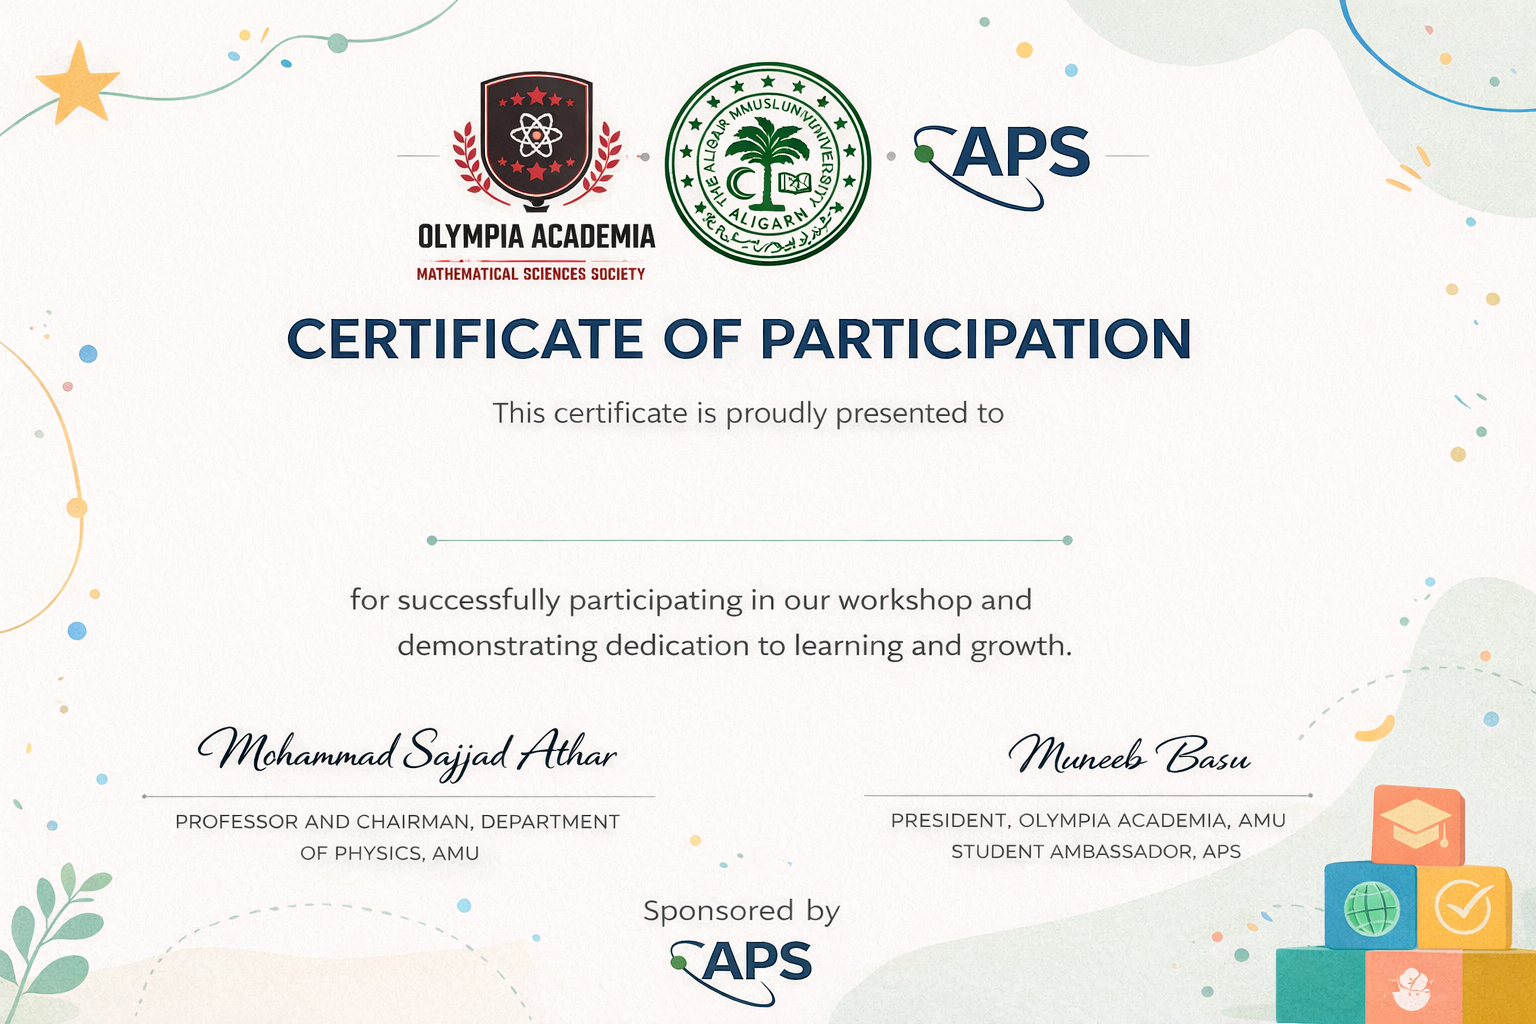
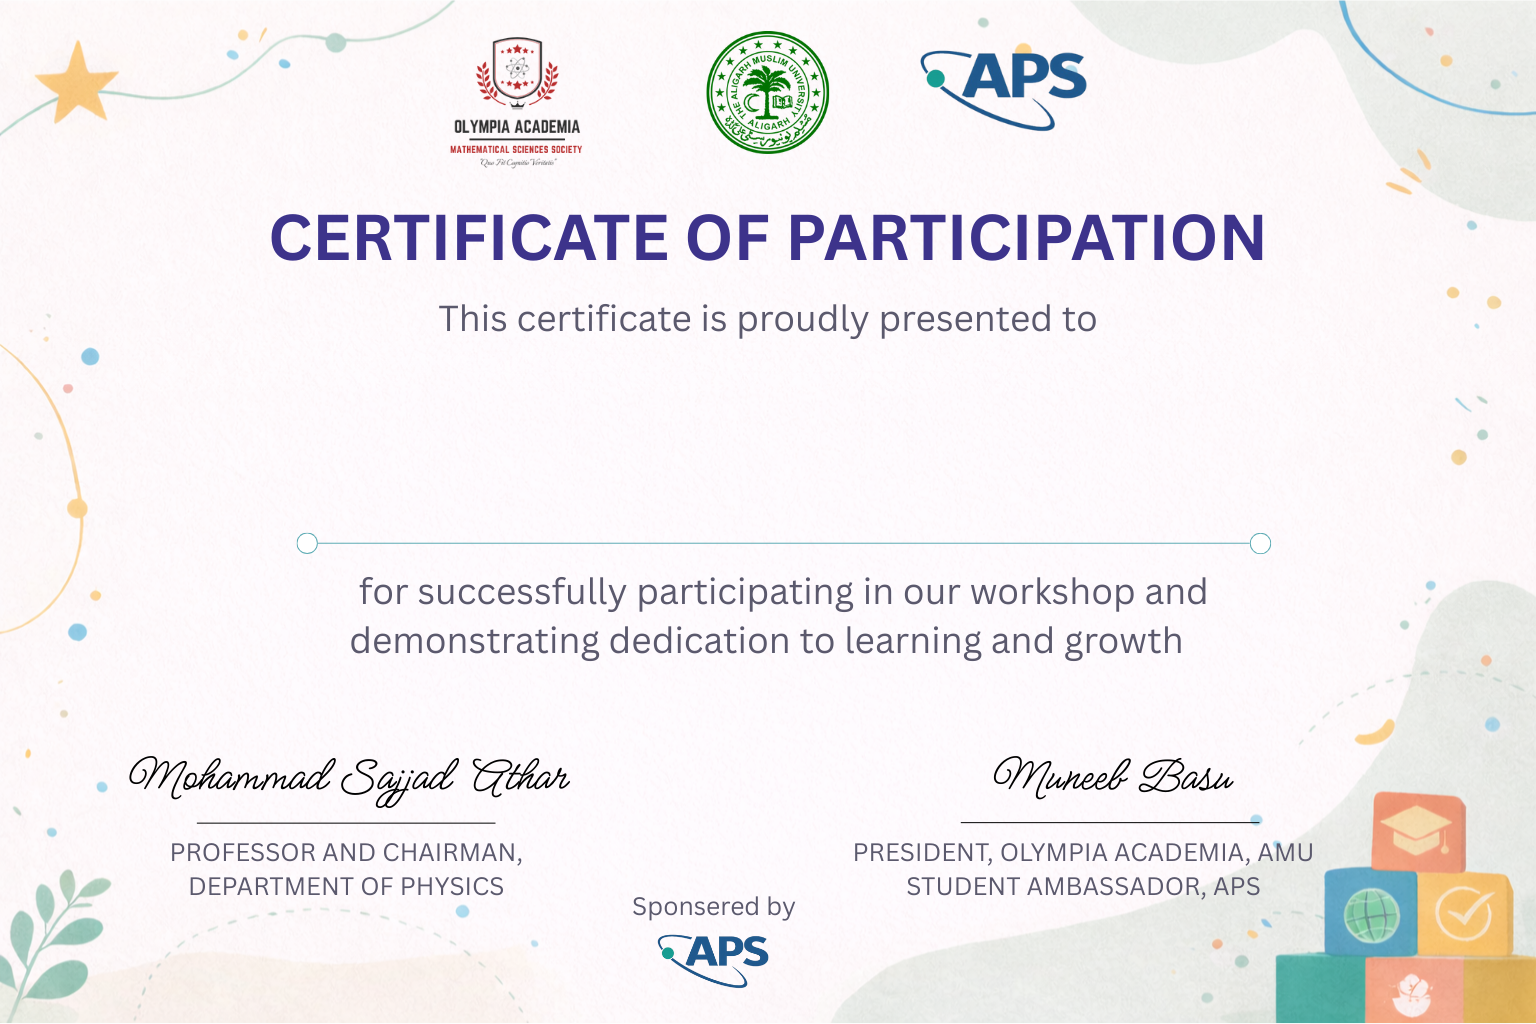
Improved cert using canva

diff --git a/backend/services/certificateService.js b/backend/services/certificateService.js
@@ -34,7 +34,7 @@ const getFontFamily = (fontValue) => {
 // Certificate generation with fixed template and fonts
 export async function generateCertificate({ name }) {
   // Fixed configuration - no longer customizable
-  const nameFont = 'cursive';
+  const nameFont = 'sans';
   const certBody = 'for successfully participating in our workshop and demonstrating dedication to learning and growth.';
   const certTitleFont = 'elegant-serif';
   const sigFont = 'handwriting';
@@ -62,9 +62,9 @@ export async function generateCertificate({ name }) {
     const ctx = canvas.getContext('2d');
     
     // Configure text rendering (scale font size)
-    const fontSize = 114 * scale;  // 72px base * 2 for display * scale
+    const fontSize = 50 * scale;  // 72px base * 2 for display * scale
     const fontFamily = getFontFamily(nameFont);
-    ctx.font = `bold ${fontSize}px "${fontFamily}"`;
+    ctx.font = `normal ${fontSize}px "${fontFamily}"`;
     ctx.fillStyle = '#111827';
     ctx.textAlign = 'center';
     ctx.textBaseline = 'middle';
@@ -74,7 +74,7 @@ export async function generateCertificate({ name }) {
     // Double for 2x: 280 * 2 = 560
     // Add half of name space (112px / 2 * 2 = 112): 560 + 112 = 672
     const textX = width / 2;
-    const textY = 430 * scale;  // Position accounting for scale
+    const textY = 405 * scale;  // Position accounting for scale
     
     console.log(`   → Drawing text at position (${textX}, ${textY}) with font size ${fontSize}px`);
     ctx.fillText(name, textX, textY);

diff --git a/frontend/src/components/DashboardComponents.jsx b/frontend/src/components/DashboardComponents.jsx
@@ -766,11 +766,14 @@ export const Dashboard = ({
       <div 
         className="h-[44.5px] sticky top-0 z-30 flex items-center justify-between px-6"
         style={{
-          backgroundColor: 'transparent',
+          backgroundColor: 'rgba(7, 7, 9, 0.85)',
+          backdropFilter: 'blur(12px)',
+          WebkitBackdropFilter: 'blur(12px)',
           borderBottom: `1px solid ${colors.border.default}`,
           marginLeft: '-24px',
           marginRight: '-24px',
           marginTop: '-24px',
+          transition: 'backdrop-filter 0.2s',
         }}
       >
         {/* Left: Workshop Title/Breadcrumb */}
